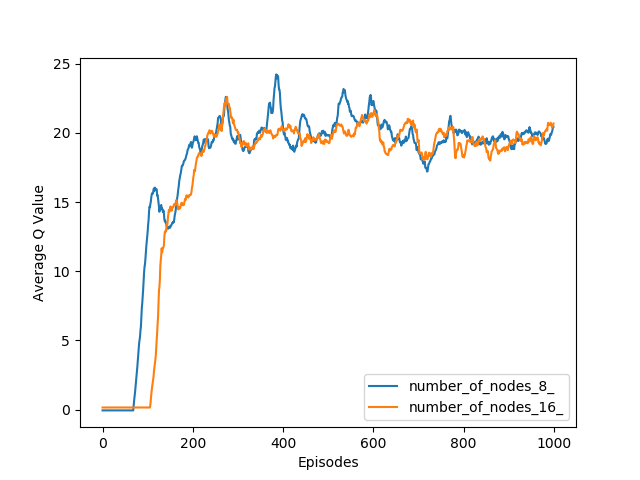
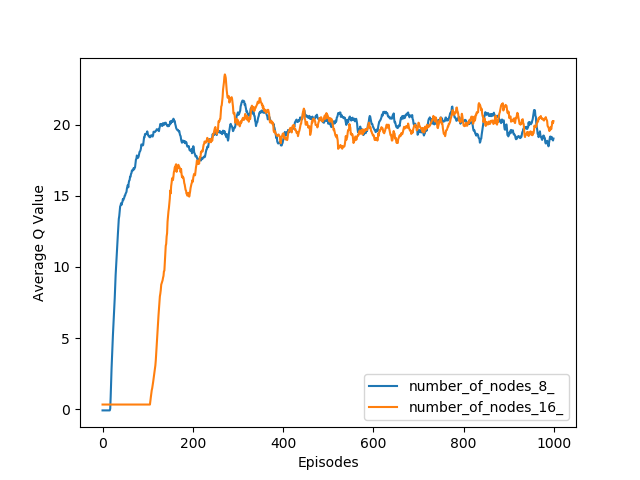
added graph + enhance a bit

diff --git a/cartpole_dqn.py b/cartpole_dqn.py
@@ -7,6 +7,8 @@ from collections import deque
 from keras.layers import Dense
 from keras.optimizers import Adam
 from keras.models import Sequential
+import pandas as pd
+import os
 
 EPISODES = 1000 #Maximum number of episodes
 
@@ -184,7 +186,11 @@ if __name__ == "__main__":
     #Get state and action sizes from the environment
     state_size = env.observation_space.shape[0]
     action_size = env.action_space.n
-    params = [{'number_of_nodes': 2**i} for i in range(3, 7)]
+    param_name = 'number_of_nodes'
+    param_values = [2**i for i in range(3, 8)]
+    params = [{param_name: i} for i in param_values]
+    result_mean = []
+    result_std = []
     for param_dict in params:
     # for number_of_layers in [1,2,3]:
         #Create agent, see the DQNAgent __init__ method for details
@@ -264,3 +270,11 @@ if __name__ == "__main__":
                             agent.plot_data(episodes,scores,max_q_mean[:e+1])
                             sys.exit()
         agent.plot_data(episodes,scores,max_q_mean,sign(param_dict))
+        result_mean.append(np.mean(scores[-100:]))
+        result_std.append(np.std(scores[-100:]))
+    pd.DataFrame({param_name: param_values,
+                  'mean': result_mean,
+                  'std': result_std}).to_latex('result.ltx.txt')
+    pd.DataFrame({param_name: param_values,
+                  'mean'    : result_mean,
+                  'std'     : result_std}).to_csv('result.csv')
